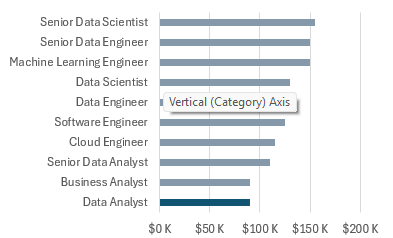
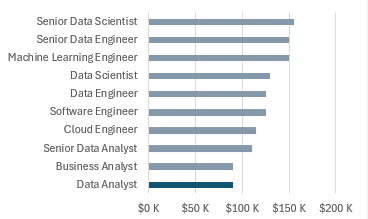
final dashboard

diff --git a/Dashboard/readme.md b/Dashboard/readme.md
@@ -6,7 +6,6 @@
 
 This Data Jobs Salary Dashboard was created to help job seekers explore salary trends for various roles and assess whether they are or going to be fairly compensated.
 
-The dataset was obtained from online sources and contains detailed information on job titles, salaries, locations, and key skills, which are summarized and visualized here.
 
 ### Dashboard File
 My final dashboard is in [Salary Dashboard.xlsx](Salary%20Dashboard.xlsx).
@@ -32,24 +31,27 @@ The dataset used for this project contains real-world data science job informati
 
 ### 📉 Charts
 
-#### 📊 Data Science Job Salaries - Bar Chart
+#### 📊 Data Science Roles Salaries - Bar Chart
 
-<img src="/Assets/Dashboard_Chart1.png" width="850" height="550" alt="Salary Dashboard Chart1">
+<img src="../Assets/Dashboard_Chart1.png" width="800" height="300" alt="Salary Dashboard Chart1">
 
-- 🛠 **Excel Features:** Utilized bar chart feature (with formatted salary values) and optimized layout for clarity.
-- 🎨 **Design Choice:** Horizontal bar chart for visual comparison of median salaries.
-- 📉 **Data Organization:** Sorted job titles by descending salary for improved readability.
-- 💡 **Insights Gained:** This enables quick identification of salary trends, noting that Senior roles and Engineers are higher-paying than Analyst roles.
+
+- 🛠 **Excel Tools:** Applied bar chart visualization (with formatted salary figures) and adjusted layout for better clarity.  
+- 🎨 **Visualization Style:** Chose a horizontal bar chart to make salary comparisons more intuitive.  
+- 📉 **Data Structuring:** Arranged job titles in descending order of salary for easier interpretation.  
+- 💡 **Key Takeaways:** Highlights salary patterns, showing that Senior positions and Engineers generally earn more than Analyst roles.  
+
 
 #### 🗺 Country Median Salaries - Map Chart
 
-![1_Salary_Dashboard_Chart2.png](/0_Resources/Images/1_Salary_Dashboard_Country_Map.gif)
+![1_Salary_Dashboard_Chart2.png](/Assets/Country_Map.gif)
 
-- 🛠 **Excel Features:** Utilized Excel's map chart feature to plot median salaries globally.
-- 🎨 **Design Choice:** Color-coded map to visually differentiate salary levels across regions.
-- 📊 **Data Representation:** Plotted median salary for each country with available data.
-- 👁 **Visual Enhancement:** Improved readability and immediate understanding of geographic salary trends.
-- 💡 **Insights Gained:** Enables quick grasp of global salary disparities and highlights high/low salary regions.
+- 🛠 **Excel Tools:** Used Excel’s map chart feature to visualize median salaries worldwide.  
+- 🎨 **Visualization Style:** Applied color-coding to distinguish salary levels across different regions.  
+- 📊 **Data Display:** Mapped median salaries for each country with available information.  
+- 👁 **Readability Boost:** Enhanced clarity and allowed quick understanding of geographic salary patterns.  
+- 💡 **Key Takeaways:** Provides an overview of global pay differences, highlighting both high- and low-salary regions.  
+
 
 ### 🧮 Formulas and Functions
 
@@ -67,18 +69,19 @@ IF(
 )
 ```
 
-- 🔍 **Multi-Criteria Filtering:** Checks job title, country, schedule type, and excludes blank salaries.
-- 📊 **Array Formula:** Utilizes `MEDIAN()` function with nested `IF()` statement to analyze an array.
-- 🎯 **Tailored Insights:** Provides specific salary information for job titles, regions, and schedule types.
-- **🔢 Formula Purpose:** This formula populates the table below, returning the median salary based on job title, country, and type specified.
+- 🔍 **Advanced Filtering:** Applies conditions for job title, country, schedule type, while ignoring blank salary entries.  
+- 📊 **Array-Based Formula:** Leverages the `MEDIAN()` function combined with nested `IF()` statements to process arrays.  
+- 🎯 **Focused Insights:** Delivers targeted salary details by job role, location, and work schedule.  
+- 🔢 **Formula Role:** Fills the table below with the median salary according to the selected job title, country, and schedule type.  
+
 
 🍽 Background Table
 
-![1_Salary_Dashboard_Screenshot1.png](/0_Resources/Images/1_Salary_Dashboard_Screenshot1.png)
+![Salary_Dashboard_Screenshot1.png](/Assets/screenshot1.png)
 
 📉 Dashboard Implementation
 
-<img src="/0_Resources/Images/1_Salary_Dashboard_Job_Title.png" width="400" height="500" alt="Salary Dashboard Title">
+<img src="../Assets/screenshot2.png" width="350" height="400" alt="Salary Dashboard Title">
 
 #### ⏰ Count of Job Schedule Type
 
@@ -86,28 +89,28 @@ IF(
 =FILTER(J2#,(NOT(ISNUMBER(SEARCH("and",J2#))+ISNUMBER(SEARCH(",",J2#))))*(J2#<>0))
 ```
 
-- 🔍 **Unique List Generation:** This Excel formula below employs the `FILTER()` function to exclude entries containing "and" or commas, and omit zero values.
-- **🔢 Formula Purpose:** This formula populates the table below, which gives us a list of unique job schedule types.
+- 🔍 **Unique Value Extraction:** Uses the `FILTER()` function to remove entries with "and," commas, or zero values.  
+- 🔢 **Formula Role:** Generates the table below by providing a distinct list of job schedule types.  
+
 
 🍽 Background Table
 
-![1_Salary_Dashboard_Type.png](/0_Resources/Images/1_Salary_Dashboard_Screenshot2.png)
+![1_Salary_Dashboard_Type.png](/Assets/screenshot3.png)
 
 📉 Dashboard Implementation:
 
-<img src="/0_Resources/Images/1_Salary_Dashboard_Type.png" width="350" height="500" alt="Salary Dashboard Type">
+<img src="../Assets/Dashboard Type.png" width="350" height="380" alt="Salary Dashboard Type">
 
 ### ❎ Data Validation
 
 #### 🔍 Filtered List
 
-- 🔒 **Enhanced Data Validation:** Implementing the filtered list as a data validation rule under the `Job Title`, `Country`, and `Type` option in the Data tab ensures:
-    - 🎯 User input is restricted to predefined, validated schedule types
-    - 🚫 Incorrect or inconsistent entries are prevented
-    - 👥 Overall usability of the dashboard is enhanced
+- 🔒 **Improved Data Validation:** Applied the filtered list as a validation rule under `Job Title`, `Country`, and `Type` in the Data tab to ensure:  
+  - 🎯 Inputs are limited to approved, validated schedule types  
+  - 🚫 Errors and inconsistent entries are avoided  
+  - 👥 Dashboard usability and reliability are strengthened  
 
-<img src="/0_Resources/Images/1_Salary_Dashboard_Data_Validation.gif" width="425" height="400" alt="Salary Dashboard Data Validation">
+<img src="../Assets/Dashboard.png" width="800" height="250" alt="Salary Dashboard Data Validation">
 
 ## Conclusion
-
-I created this dashboard to showcase insights into salary trends across various data-related job titles. Utilizing data from my Excel course, this dashboard allows users to make informed decisions about their career paths. Exploring the functionalities to understand how location and job type influence salaries. 
+I developed this dashboard to highlight salary patterns across different data-focused job titles. Using real-world 2023 job market data, it provides users with valuable insights to guide their career choices. The dashboard also demonstrates how factors such as location and job type can impact compensation. Overall, this tool serves as both an informative resource and a practical aid for anyone seeking to better understand and navigate salary trends in the data industry.
